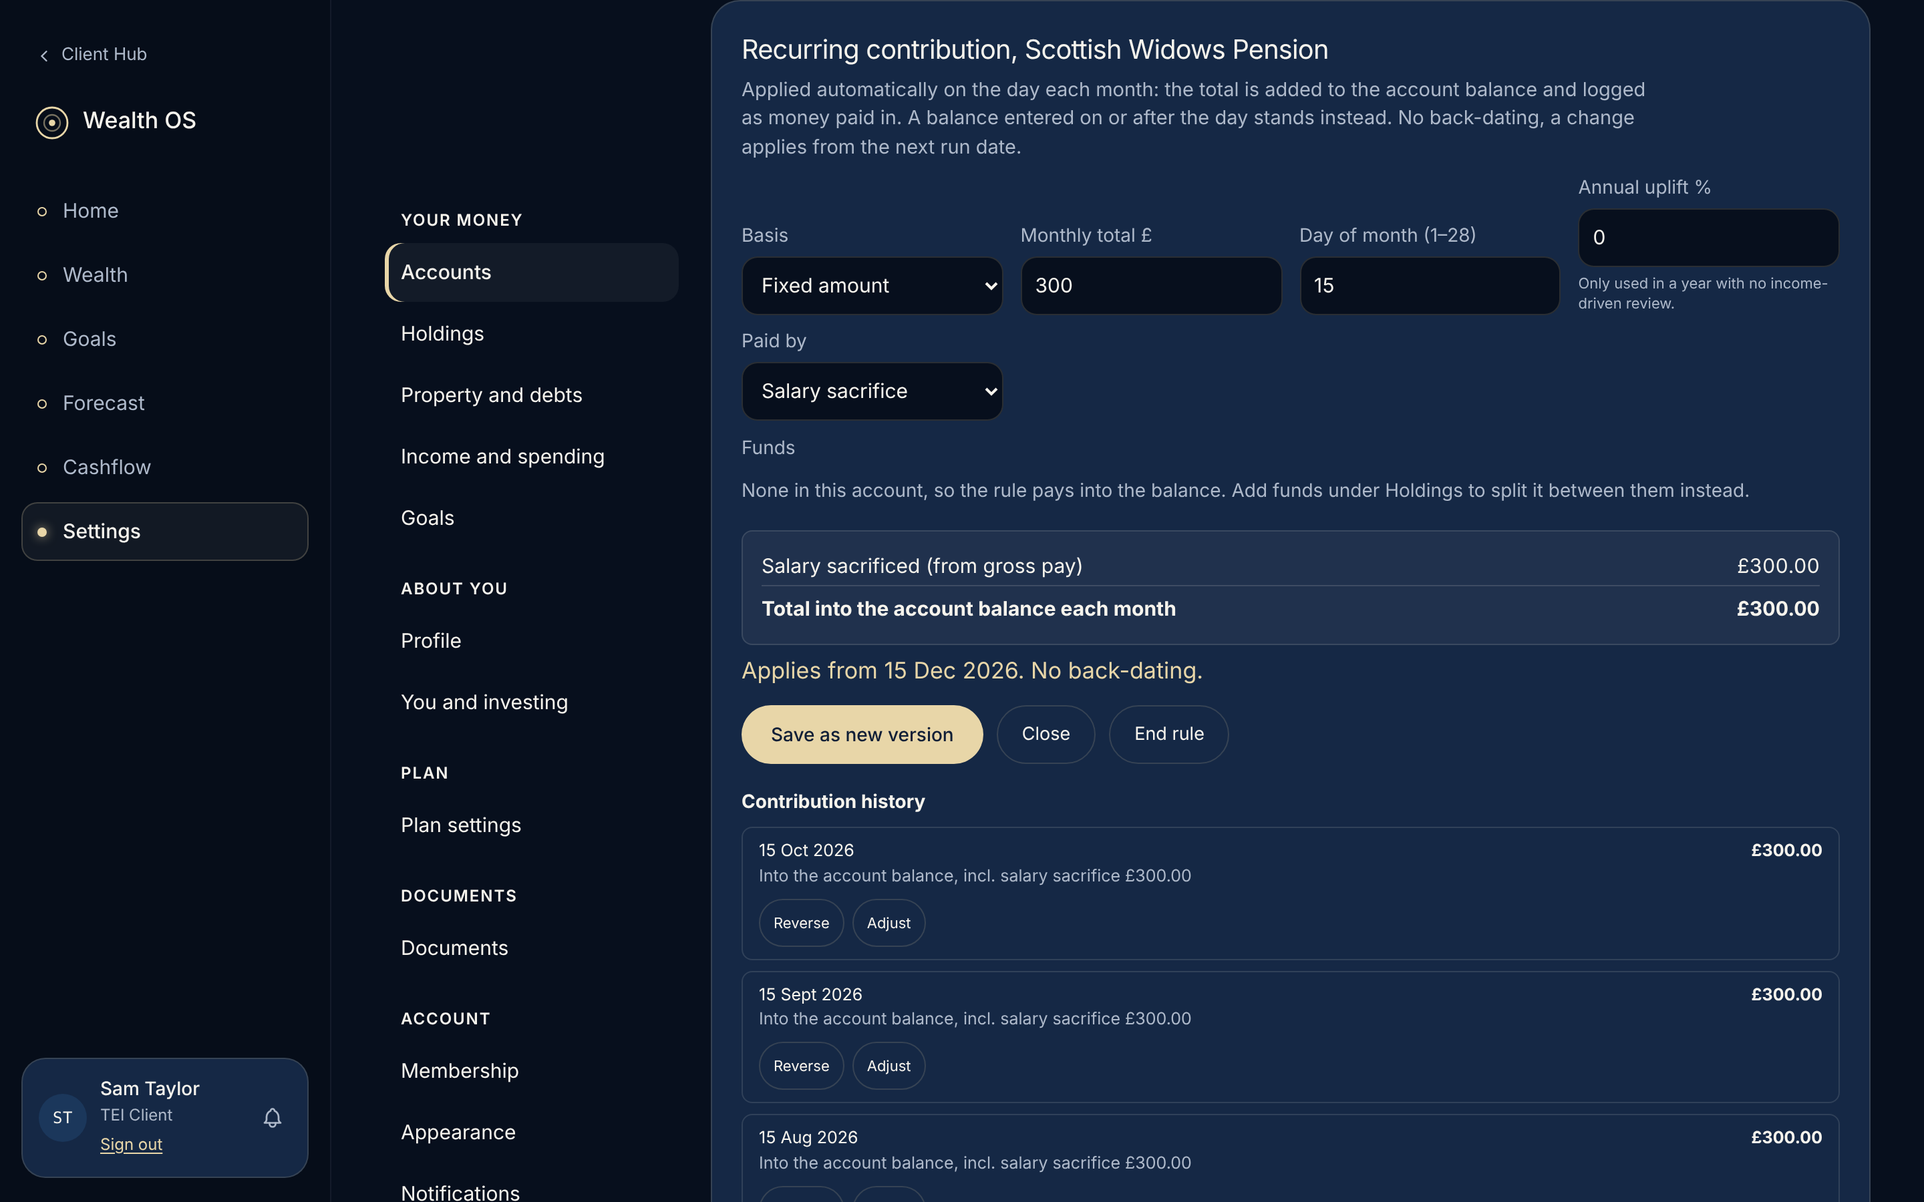
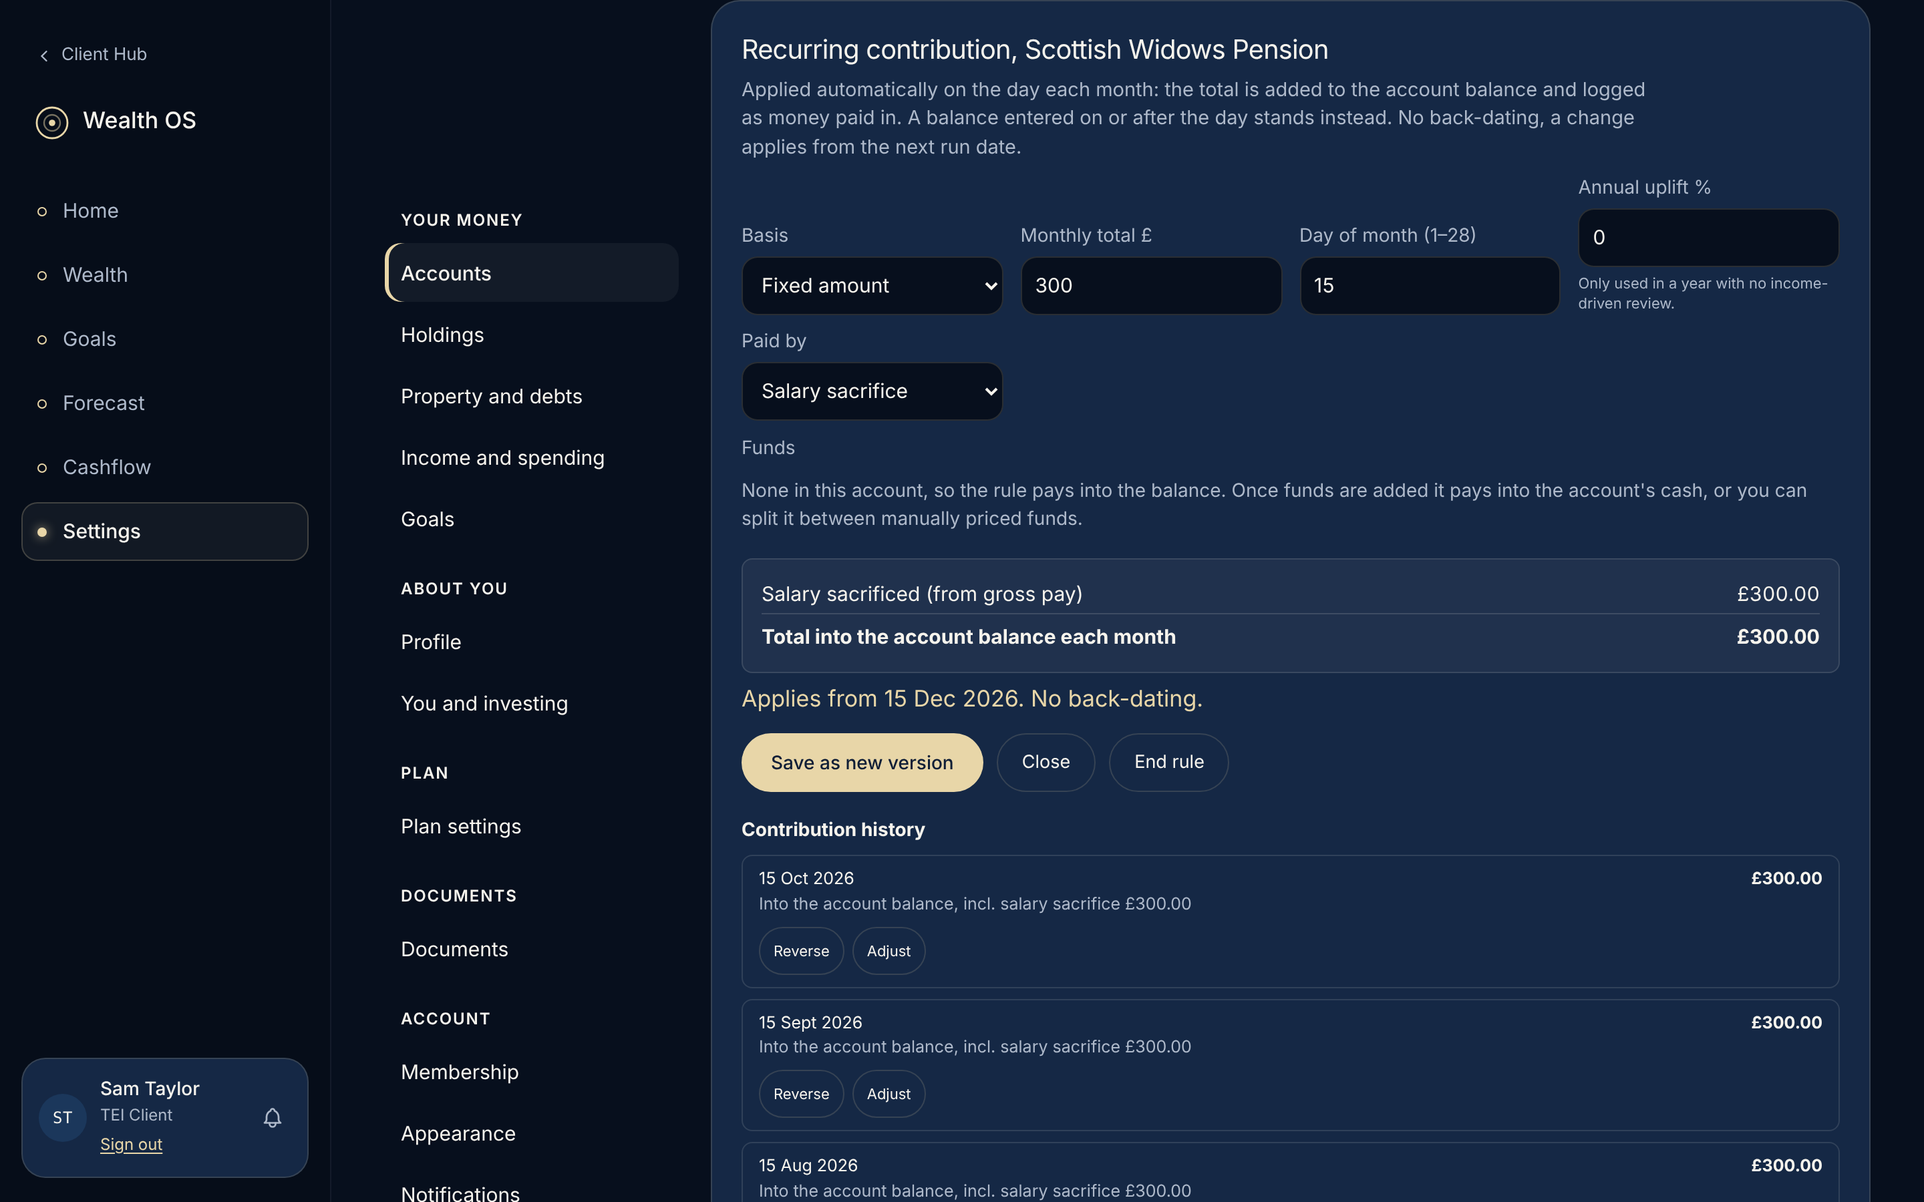
Contribution rules without funds also work on accounts that hold shares: pay into cash
A rule on an account holding only auto-priced shares (e.g. a S&S LISA of
US shares) had nowhere to go: auto-priced funds cannot take
contributions. A rule can now choose no funds on any account. With no
holdings it pays into the balance, as before; with holdings it pays into
the account's cash (Cash not yet invested), so the account value grows
while the shares keep their live prices. Reverse and Adjust follow the
cash too, and a cash figure a person saved since a run stands. Funds
added later to a balance-rule account now just switch it to cash, so the
'contributions stopped' state is gone.

The rule editor gains 'Pay into: the account's cash / Funds' on accounts
with holdings; new rules default to cash when no fund can take money.

Database tests: 10 checks, including one for an all-auto-priced LISA.

Claude-Session: https://claude.ai/code/session_015wx5SxsDrR1hMEmXmcD6hN

diff --git a/hub/js/wealth-os/11-adviser.js b/hub/js/wealth-os/11-adviser.js
@@ -3132,9 +3132,7 @@ window.TEI = window.TEI || {};
     const flags = pendingFlags(acc.id);
     const basis = rule.basis === 'salary_derived' ? `salary-derived (${fmtGBP(rule.gross_annual_salary)} gross)` : 'fixed';
     const toBalance = paysIntoBalance(rule);
-    const stalled = toBalance && hasFunds(acc.id)
-      ? `<div class="ep-checked unchecked">Pays into the balance, but the account now holds funds, so contributions have stopped. Edit the rule to choose funds.</div>` : '';
-    return `<div class="ep-rule">Recurring contribution <strong>${fmtGBP2(monthly)}/mo</strong> on day ${rule.day_of_month} · ${basis}${toBalance ? ' · into the balance' : ''}${Number(rule.annual_uplift_pct)>0 ? ' · uplift '+fmtPct(rule.annual_uplift_pct)+'/yr' : ''}${flags.length ? ` <span class="flag-badge" title="Income changed, review the contribution">${flags.length} pending flag${flags.length>1?'s':''}</span>` : ''}</div>${stalled}`;
+    return `<div class="ep-rule">Recurring contribution <strong>${fmtGBP2(monthly)}/mo</strong> on day ${rule.day_of_month} · ${basis}${toBalance ? (hasFunds(acc.id) ? ' · into cash' : ' · into the balance') : ''}${Number(rule.annual_uplift_pct)>0 ? ' · uplift '+fmtPct(rule.annual_uplift_pct)+'/yr' : ''}${flags.length ? ` <span class="flag-badge" title="Income changed, review the contribution">${flags.length} pending flag${flags.length>1?'s':''}</span>` : ''}</div>`;
   }
   /* Settings > Accounts > <account> drawer: the same rule summary and
      switches the Manual Entry account card shows, adviser view only (the
@@ -3241,7 +3239,7 @@ window.TEI = window.TEI || {};
         value: row.value, lastUpdated: row.last_updated,
         contribution: row.contribution, contributionPersonal: row.contribution_personal, contributionSacrifice: row.contribution_sacrifice,
         isManualPriced: !!row.is_manual_priced, hasContributionRule: !!row.has_contribution_rule
-      });
+      }, row.cash_balance !== undefined ? { cashBalance: row.cash_balance } : {});
     });
     res.holdings.forEach(row=>{
       const h = client.holdings.find(x=>x.id===row.id);
@@ -3262,6 +3260,8 @@ window.TEI = window.TEI || {};
       res.deposits.forEach(r=>{
         (client.contribLog[r.month_key] = client.contribLog[r.month_key] || {})[r.account_id] = { amount: r.amount, sacrificeAmount: r.sacrifice_amount, reliefAmount: r.relief_amount };
       });
+      // Accounts with funds: this month is their holdings plus cash, as on load.
+      client.accounts.forEach(a=> TEI.calc.syncAccountValueFromHoldings(client, a.id));
     }
     renderAccounts(); renderHoldings(); renderMonthlyHoldingFields(); renderMonthlyBalanceFields();
     updateHoldingFormForManualPriced();
@@ -3278,6 +3278,17 @@ window.TEI = window.TEI || {};
   function hasFunds(accountId){ return client.holdings.some(h=>h.accountId===accountId); }
   function paysIntoBalance(rule){ return !!rule && !(rule.allocations||[]).length; }
   function isBalanceRun(run){ return !(run.allocations||[]).length; }
+  /* Where a rule with no funds pays (migration 027): the account's cash
+     when it holds funds, otherwise its balance. */
+  function noFundsTarget(accountId){ return hasFunds(accountId) ? "the account's cash" : 'the account balance'; }
+  // "Pay into" is offered only when the account holds funds.
+  function paysToCash(){ return hasFunds(crAccountId) && crEl('crDest').value === 'cash'; }
+  function oneTotal(){ return !hasFunds(crAccountId) || paysToCash(); }
+  const CR_INTRO = {
+    funds: "Applied automatically on the day each month: each fund's value and cost basis rise by its share. Statement values entered later replace the value. No back-dating, a change applies from the next run date.",
+    cash: "Applied automatically on the day each month: the total is added to the account's cash (Cash not yet invested) and logged as money paid in. The shares keep their own prices. No back-dating, a change applies from the next run date.",
+    balance: 'Applied automatically on the day each month: the total is added to the account balance and logged as money paid in. A balance entered on or after the day stands instead. No back-dating, a change applies from the next run date.'
+  };
   function closeRuleEditor(){
     crAccountId = null;
     crEl('contribRuleCard').hidden = true;
@@ -3310,6 +3321,10 @@ window.TEI = window.TEI || {};
     incSel.innerHTML = '<option value="">Not linked</option>' + client.cashflow.income.map(i=>
       `<option value="${i.id}">${esc(i.type||'Income')} (${i.owner==='partner'?'partner':'client'}), ${fmtGBP(i.amount)} ${esc(i.frequency||'')}</option>`).join('');
     incSel.value = salary && rule.linked_income_id ? rule.linked_income_id : '';
+    // Pay into: an existing rule keeps its choice; a new one goes to cash
+    // unless the account has a fund that can take contributions.
+    const canFund = client.holdings.some(h=> h.accountId === accountId && h.priceSource !== 'auto_us');
+    crEl('crDest').value = rule ? (paysIntoBalance(rule) ? 'cash' : 'funds') : (canFund ? 'funds' : 'cash');
     renderRuleFunds(rule);
     crEl('crEndBtn').hidden = !rule;
     crEl('crSaveBtn').textContent = rule ? 'Save as new version' : 'Save rule';
@@ -3320,15 +3335,15 @@ window.TEI = window.TEI || {};
   }
   function syncRuleEditorChrome(){
     const salary = crEl('crBasis').value === 'salary_derived';
-    const noFunds = !hasFunds(crAccountId);
-    if(salary || noFunds) crEl('crMethod').value = 'percentage';
-    crEl('crMethod').disabled = salary || noFunds;
-    crEl('crMethod').title = noFunds ? 'No funds in this account: the rule pays one monthly total into the balance' : salary ? 'Salary-derived rules always split by percentage' : '';
-    // No funds: one monthly total into the balance, so there is nothing to split.
-    crEl('crMethod').closest('.form-field').hidden = noFunds;
-    crEl('crIntro').textContent = noFunds
-      ? 'Applied automatically on the day each month: the total is added to the account balance and logged as money paid in. A balance entered on or after the day stands instead. No back-dating, a change applies from the next run date.'
-      : 'Applied automatically on the day each month: each fund\'s value and cost basis rise by its share. Statement values entered later replace the value. No back-dating, a change applies from the next run date.';
+    const noFunds = !hasFunds(crAccountId), total1 = oneTotal();
+    crEl('crDestField').hidden = noFunds;
+    if(salary || total1) crEl('crMethod').value = 'percentage';
+    crEl('crMethod').disabled = salary;
+    crEl('crMethod').title = salary ? 'Salary-derived rules always split by percentage' : '';
+    // One monthly total into cash or the balance: nothing to split, no funds to list.
+    crEl('crMethod').closest('.form-field').hidden = total1;
+    crEl('crFunds').closest('.form-field').hidden = paysToCash();
+    crEl('crIntro').textContent = CR_INTRO[noFunds ? 'balance' : paysToCash() ? 'cash' : 'funds'];
     crEl('crSalaryFields').hidden = !salary;
     crEl('crTotalField').hidden = salary || crEl('crMethod').value !== 'percentage';
     const acc = client.accounts.find(a=>a.id===crAccountId);
@@ -3346,12 +3361,10 @@ window.TEI = window.TEI || {};
     const allocs = {};
     (rule ? rule.allocations : []).forEach(a=>{ allocs[a.holding_id] = a; });
     if(!hs.length){
-      wrap.innerHTML = `<div class="small" style="color:var(--cream-soft2);">None in this account, so the rule pays into the balance. Add funds under Holdings to split it between them instead.</div>`;
+      wrap.innerHTML = `<div class="small" style="color:var(--cream-soft2);">None in this account, so the rule pays into the balance. Once funds are added it pays into the account's cash, or you can split it between manually priced funds.</div>`;
       return;
     }
-    const warn = paysIntoBalance(rule)
-      ? `<div class="small" style="color:var(--gold); margin-bottom:8px;">This rule pays into the account balance, but the account now holds funds, so contributions have stopped. Choose the funds below and save to start them again.</div>` : '';
-    wrap.innerHTML = warn + hs.map(h=>{
+    wrap.innerHTML = hs.map(h=>{
       const manual = h.priceSource !== 'auto_us';
       const a = allocs[h.id];
       return `<div class="cr-fund${manual?'':' disabled'}">
@@ -3377,7 +3390,7 @@ window.TEI = window.TEI || {};
     const num = id=>{ const x = crEl(id).value; return x === '' ? null : parseFloat(x); };
     const salary = crEl('crBasis').value === 'salary_derived';
     const method = salary ? 'percentage' : crEl('crMethod').value;
-    const allocations = Array.from(crEl('crFunds').querySelectorAll('[data-cr-fund]:not([disabled])'))
+    const allocations = oneTotal() ? [] : Array.from(crEl('crFunds').querySelectorAll('[data-cr-fund]:not([disabled])'))
       .map(inp=>({ holding_id: inp.dataset.crFund, w: parseFloat(inp.dataset.w), amt: parseFloat(inp.dataset.amt) }))
       .filter(x=> method === 'percentage' ? x.w > 0 : x.amt > 0)
       .map(x=> method === 'percentage' ? { holding_id: x.holding_id, weight_pct: x.w } : { holding_id: x.holding_id, amount: x.amt });
@@ -3409,7 +3422,7 @@ window.TEI = window.TEI || {};
     const p = rulePayload();
     // Entry feedback only (not a contribution figure): do the weights add up?
     const help = crEl('crFundsTotal');
-    if(!hasFunds(crAccountId)){
+    if(oneTotal()){
       help.textContent = '';
     } else if(p.allocation_method === 'percentage'){
       const w = p.allocations.reduce((s,a)=>s+a.weight_pct, 0);
@@ -3458,7 +3471,7 @@ window.TEI = window.TEI || {};
     const split = (res.allocations||[]).map(a=>[`→ ${esc(holdingName(a.holding_id))}`, fmtGBP2(a.amount)]);
     crEl('crBreakdown').innerHTML = `<table>
       ${rows.map(r=>`<tr><td>${r[0]}</td><td>${r[1]}</td></tr>`).join('')}
-      <tr class="total"><td>Total into ${hasFunds(crAccountId) ? 'funds' : 'the account balance'} each month</td><td>${fmtGBP2(res.total)}</td></tr>
+      <tr class="total"><td>Total into ${oneTotal() ? noFundsTarget(crAccountId) : 'funds'} each month</td><td>${fmtGBP2(res.total)}</td></tr>
       ${split.map(r=>`<tr><td>${r[0]}</td><td>${r[1]}</td></tr>`).join('')}
       ${info.map(r=>`<tr style="opacity:.75; font-size:12px;"><td>${r[0]}</td><td>${r[1]}</td></tr>`).join('')}
     </table>`;
@@ -3507,7 +3520,7 @@ window.TEI = window.TEI || {};
       if(Number(run.employer_amount) > 0) parts.push('employer ' + fmtGBP2(run.employer_amount));
       if(Number(run.sacrifice_amount) > 0) parts.push('salary sacrifice ' + fmtGBP2(run.sacrifice_amount));
       if(Number(run.relief_amount) > 0) parts.push('tax relief ' + fmtGBP2(run.relief_amount));
-      const split = isBalanceRun(run) ? 'Into the account balance' : (run.allocations||[]).map(a=>`${esc(holdingName(a.holding_id))} ${fmtGBP2(a.amount)}`).join(' · ');
+      const split = isBalanceRun(run) ? 'Into ' + noFundsTarget(run.account_id) : (run.allocations||[]).map(a=>`${esc(holdingName(a.holding_id))} ${fmtGBP2(a.amount)}`).join(' · ');
       return `<div class="cr-run ${run.status}">
         <div class="cr-run-head"><span>${fmtDateShort(run.run_date)}${run.status !== 'applied' ? ` <span class="tag-pill">${run.status}</span>` : ''}</span><strong>${fmtGBP2(run.total_amount)}</strong></div>
         <div>${split}${parts.length ? ', incl. ' + parts.join(', ') : ''}</div>
@@ -3528,7 +3541,7 @@ window.TEI = window.TEI || {};
     const run = contribState().runs.find(r=>r.id===runId);
     if(!run) return;
     const note = prompt(isBalanceRun(run)
-      ? `Reverse the ${fmtGBP2(run.total_amount)} contribution of ${fmtDateShort(run.run_date)}?\n\nThat month's money paid in is reduced. The account balance is reduced too, unless a balance has been entered since (then that figure stands).\n\nReason (saved with the run):`
+      ? `Reverse the ${fmtGBP2(run.total_amount)} contribution of ${fmtDateShort(run.run_date)}?\n\nThat month's money paid in is reduced. ${hasFunds(run.account_id) ? "The account's cash is reduced too, unless the account has been saved since (then its cash figure stands)." : 'The account balance is reduced too, unless a balance has been entered since (then that figure stands).'}\n\nReason (saved with the run):`
       : `Reverse the ${fmtGBP2(run.total_amount)} contribution of ${fmtDateShort(run.run_date)}?\n\nCost basis and that month's deposits are reduced. Fund values are reduced too, unless a statement value has been entered since (then the statement stands).\n\nReason (saved with the run):`);
     if(note === null) return;
     try{
@@ -3547,7 +3560,7 @@ window.TEI = window.TEI || {};
     if(!run || !box) return;
     box.innerHTML = `<div class="cr-funds" style="margin-top:8px;">
       ${isBalanceRun(run)
-        ? `<div class="cr-fund"><span>Into the account balance</span><input type="number" step="0.01" min="0" data-adj-balance value="${Number(run.total_amount)}"></div>`
+        ? `<div class="cr-fund"><span>Into ${noFundsTarget(run.account_id)}</span><input type="number" step="0.01" min="0" data-adj-balance value="${Number(run.total_amount)}"></div>`
         : (run.allocations||[]).map(a=>`<div class="cr-fund"><span>${esc(holdingName(a.holding_id))}</span><input type="number" step="0.01" min="0" data-adj-fund="${a.holding_id}" value="${Number(a.amount)}"></div>`).join('')}
       <label class="form-field"><span>Note (required)</span><input type="text" data-adj-note placeholder="e.g. payslip showed £280"></label>
       <div class="cr-run-actions"><button type="button" class="btn-primary" data-adj-apply>Apply adjustment</button><button type="button" class="btn-ghost" data-adj-cancel>Cancel</button></div>
@@ -3656,7 +3669,7 @@ window.TEI = window.TEI || {};
     list.querySelectorAll('[data-cr-open]').forEach(b=> b.addEventListener('click', ()=> openRuleEditor(b.dataset.crOpen)));
   }
   function wireContribEditor(){
-    ['crBasis','crMethod'].forEach(id=> crEl(id).addEventListener('change', ()=>{ syncRuleEditorChrome(); schedulePreview(); }));
+    ['crBasis','crMethod','crDest'].forEach(id=> crEl(id).addEventListener('change', ()=>{ syncRuleEditorChrome(); schedulePreview(); }));
     ['crTotal','crDay','crUplift','crGross','crEmployeePct','crEmployerPct','crMatchCap'].forEach(id=> crEl(id).addEventListener('input', ()=> schedulePreview()));
     ['crPersonalMethod','crPensionable','crLinkedIncome'].forEach(id=> crEl(id).addEventListener('change', ()=> schedulePreview()));
     crEl('crSalaryMethod').addEventListener('change', ()=>{ syncRuleEditorChrome(); schedulePreview(); });

diff --git a/scripts/wos-demo/demo-client.js b/scripts/wos-demo/demo-client.js
@@ -113,6 +113,14 @@
       contribution_method: 'salary_sacrifice', employer_ni_passon_pct: 0, change_reason: 'created', created_at: iso(120), created_by: UID,
       contribution_rule_allocations: []});
     ruleState.push({account_id: wp.id, start_date: dateIn(-4), next_uplift_date: dateIn(8), last_reviewed_at: dateIn(-4), last_review_source: 'created'});
+    // A S&S LISA holding only auto-priced US shares: a rule with no funds
+    // pays into its cash (migration 027).
+    var aj = acc({provider: 'AJ Bell', type: 'lisa', value: 4200, cash_balance: 0});
+    accounts.push(aj);
+    holdings.push(hold(aj, {name: 'Tesla', ticker: 'TSLA', value: 2100, cost_basis: 1900, price_source: 'auto_us'}),
+      hold(aj, {name: 'Alphabet', ticker: 'GOOG', value: 1300, cost_basis: 1100, price_source: 'auto_us'}),
+      hold(aj, {name: 'Microsoft', ticker: 'MSFT', value: 800, cost_basis: 700, price_source: 'auto_us'}));
+    for(var ab = 11; ab >= 0; ab--) account_months.push({id: id(), account_id: aj.id, month_key: mk(ab), value: Math.round(4200*(0.7 + 0.3*(11 - ab)/11)), carried_forward: false, last_edited_at: iso(ab*30)});
     [3, 2, 1].forEach(function(b){
       var d = new Date(now.getFullYear(), now.getMonth() - b, 15).toISOString().slice(0, 10);
       ruleRuns.push({id: id(), account_id: wp.id, rule_id: wpRule, run_date: d, month_key: mk(b), total_amount: 300, employee_amount: 300,

diff --git a/hub/wealth-os.html b/hub/wealth-os.html
@@ -1719,6 +1719,7 @@ window.TeiTheme && TeiTheme.paint();</script>
       <div id="crFlags"></div>
       <div class="mini-form" style="margin-top:8px;">
         <label class="form-field"><span>Basis</span><select id="crBasis"><option value="fixed">Fixed amount</option><option value="salary_derived">Salary-derived</option></select></label>
+        <label class="form-field" id="crDestField"><span>Pay into</span><select id="crDest"><option value="cash">The account's cash</option><option value="funds">Funds</option></select></label>
         <label class="form-field"><span>Split by</span><select id="crMethod"><option value="percentage">Percentage</option><option value="manual">Manual amounts (£)</option></select></label>
         <label class="form-field" id="crTotalField"><span>Monthly total £</span><input type="number" step="0.01" id="crTotal" placeholder="0.00"></label>
         <label class="form-field"><span>Day of month (1–28)</span><input type="number" min="1" max="28" id="crDay" placeholder="1"></label>

diff --git a/hub/js/wealth-os/13-supabase.js b/hub/js/wealth-os/13-supabase.js
@@ -1058,7 +1058,7 @@ window.TEI = window.TEI || {};
       const contrib = await fetchContributionBundle(w, accountIds);
       const none = Promise.resolve({data:[]});
       const [accRes, holdRes, monthsRes, depRes] = await Promise.all([
-        accountIds.length ? w.from('accounts').select('id,value,last_updated,contribution,contribution_personal,contribution_sacrifice,is_manual_priced,has_contribution_rule').in('id', accountIds) : none,
+        accountIds.length ? w.from('accounts').select('id,value,last_updated,contribution,contribution_personal,contribution_sacrifice,is_manual_priced,has_contribution_rule,cash_balance').in('id', accountIds) : none,
         accountIds.length ? w.from('holdings').select('id,account_id,value,cost_basis,price_source,value_checked_at').in('account_id', accountIds) : none,
         // A rule on an account with no funds pays into the balance
         // (migration 027), so a reverse or adjust moves these too.

diff --git a/supabase/tests/027/README.md b/supabase/tests/027/README.md
@@ -10,4 +10,4 @@ psql -d wos027 -v ON_ERROR_STOP=1 -1 -f ../../migrations/027_contribution_rule_b
 psql -d wos027 -v ON_ERROR_STOP=1 -f 10_tests.sql
 ```
 
-`00_schema.sql` is a copy of the live `wealth_os` tables the engine touches, and `01_…sql` holds the live engine functions as they were before 027. Every block in `10_tests.sql` prints `PASS …` or stops with `FAIL …`. Without 027 applied, the tests stop at `FAIL 1b` (a rule with no funds is refused), which shows they exercise the change.
+`00_schema.sql` is a copy of the live `wealth_os` tables the engine touches, and `01_…sql` holds the live engine functions as they were before 027. Every block in `10_tests.sql` prints `PASS …` or stops with `FAIL …`. Without 027 applied, the tests stop at `FAIL 1b` (a rule with no funds is refused), which shows they exercise the change. Check 10 covers an account holding only auto-priced shares (pays into its cash).
